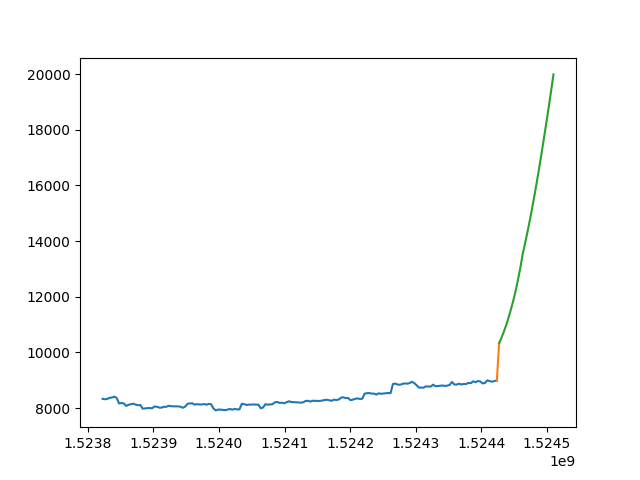
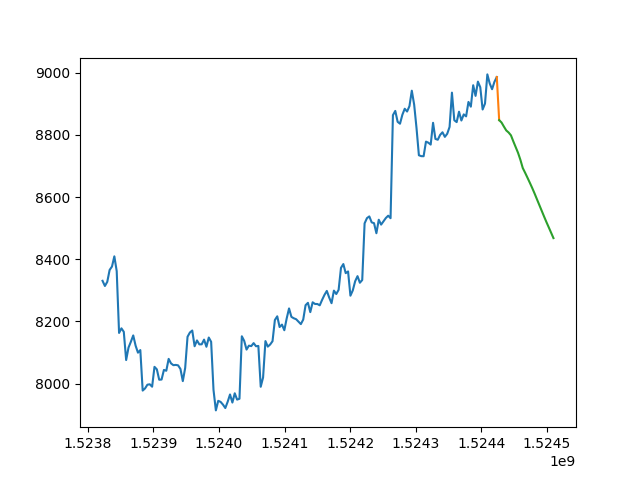
trying to fix bad prediction, I think I'm not correctly normalizing input

diff --git a/src/crypto_models/build_lstm_model.py b/src/crypto_models/build_lstm_model.py
@@ -26,7 +26,7 @@ DISCOVERED_COLS = ['volatility']
 # of the first value in the window
 def normalize_window_df(window, columnNames):
     for col in columnNames:
-    	window.loc[:,col] = window[col]/(window[col].iloc[0]+1) - 1
+    	window.loc[:,col] = window[col]/(window[col].iloc[0]) - 1
 
 def discover_features(frame):
     frame['volatility'] = (frame['high']-frame['low'])/(frame['close']+1)
@@ -64,14 +64,12 @@ def main():
 	''' creating windows of timeseries data and normalising windows '''
 	lstm_train_input = []
 	for i in range(len(train_data)-WINDOW_LEN):
-            if (i%1000==0): print i
 	    w = train_data[i:(i+WINDOW_LEN)].copy()
 	    lstm_train_input.append(w)
 	for i in range(len(lstm_train_input)):
-            if (i%1000==0): print i
             normalize_window_df(lstm_train_input[i], COLS_TO_NORMALIZE)
 	lstm_train_output = \
-	 (train_data[WINDOW_LEN:].values/(train_data[:-WINDOW_LEN].values+1))-1 # normalized
+	 (train_data[WINDOW_LEN:].values/(train_data[:-WINDOW_LEN].values))-1 # normalized
         del(train_data)
 
 	''' putting input windows into numpy arrays '''

diff --git a/src/crypto_models/plot_prices.py b/src/crypto_models/plot_prices.py
@@ -59,9 +59,9 @@ def main():
 
     trans = past_df.tail(1).append(futr_df.head(1))
 
-    plt.plot(past_times, past_df['close'])
-    plt.plot([past_times[-1], futr_times[0]], trans['close'])
-    plt.plot(futr_times, futr_df['close'])
+    plt.plot(past_times, past_df['open'])
+    plt.plot([past_times[-1], futr_times[0]], trans['open'])
+    plt.plot(futr_times, futr_df['open'])
     plt.savefig(argcurrencyname+"_plot.png")
 
 if __name__ == "__main__":

diff --git a/src/crypto_models/pred_with_lstm_model.py b/src/crypto_models/pred_with_lstm_model.py
@@ -15,7 +15,9 @@ from keras.models import load_model
 from build_lstm_model import *
 
 def normalize_window_np(window, indices):
-    ret = window/(window[:][0]+1)-1
+    ret = window.copy()
+    for i in indices:
+        ret[0][i] = ret[0][i]/(ret[0][i][0]+1)
     return ret
 
 def predict_future(currencyname, daycount, inputmodelname):
